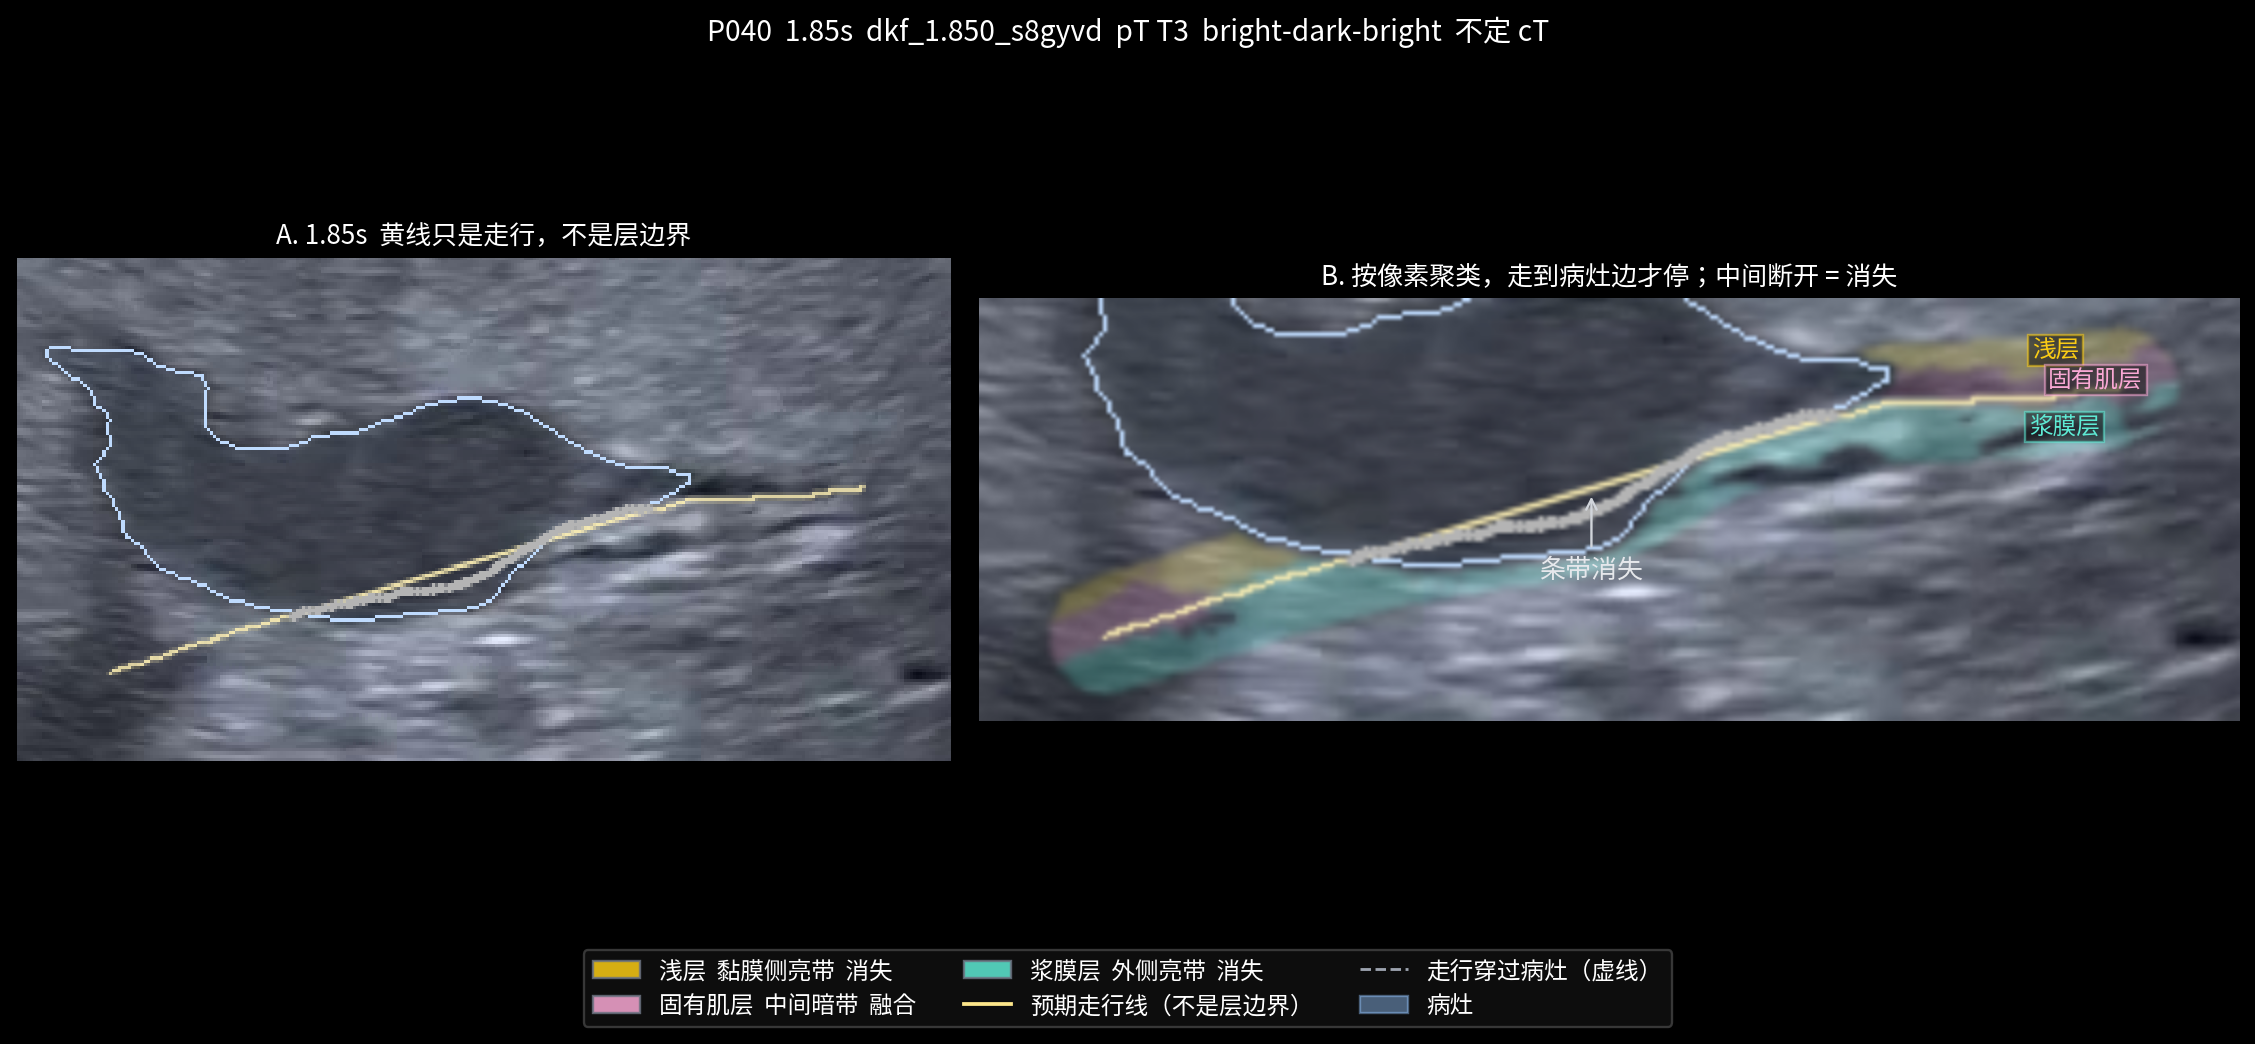
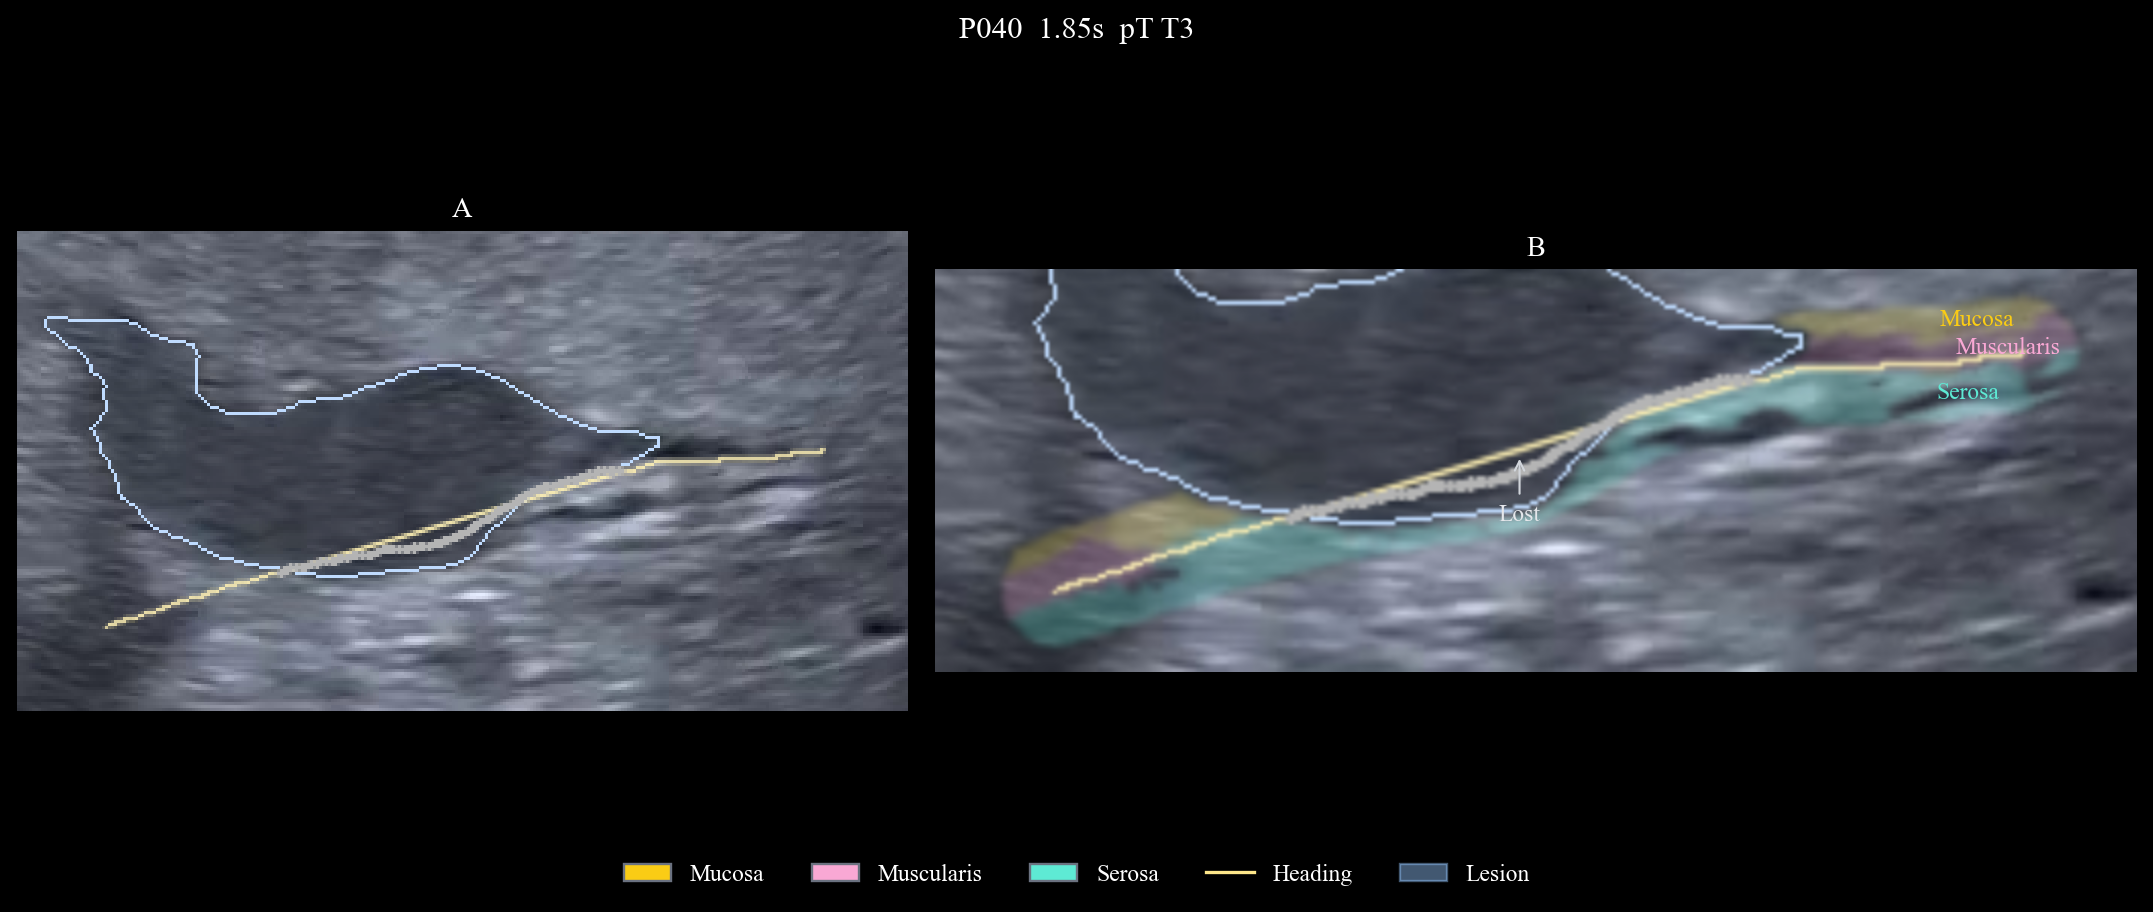
Shorten the P040 panel to English Times New Roman labels.
Drop the long Chinese captions; keep Mucosa, Muscularis, Serosa, Lost.

diff --git a/scripts/render_wall_layer_thin_bands.py b/scripts/render_wall_layer_thin_bands.py
@@ -25,14 +25,11 @@ ROOT = Path(__file__).resolve().parents[1]
 sys.path.insert(0, str(ROOT / "scripts"))
 sys.path.insert(0, str(ROOT / "pipeline"))
 
-from matplotlib.font_manager import FontProperties
 from matplotlib.lines import Line2D
 from matplotlib.patches import Patch
 
 from wall_lesion_aware_cluster import (  # noqa: E402
     DEFAULT_BRUSH,
-    FATE_ZH,
-    LAYER_NAMES_ZH,
     as_xy,
     cluster_brush_band,
     densify_polyline,
@@ -60,12 +57,10 @@ WALL = (254, 240, 180)
 LAYER_BLEND = 0.26
 LESION_BLEND = 0.12
 GAP_PX = 1
-CJK_PATH = "/usr/share/fonts/opentype/noto/NotoSansCJK-Regular.ttc"
-CJK = FontProperties(fname=CJK_PATH, size=10)
 LAYER_LEGEND = (
-    (0, "shallow", "浅层", "黏膜侧亮带"),
-    (1, "muscularis", "固有肌层", "中间暗带"),
-    (2, "serosa", "浆膜层", "外侧亮带"),
+    (0, "shallow", "Mucosa"),
+    (1, "muscularis", "Muscularis"),
+    (2, "serosa", "Serosa"),
 )
 
 # Tight pads. P008 lesion sits on the lower wall; drop the empty upper sector.
@@ -440,15 +435,13 @@ def render_case(meta: dict, seg: RoiSegmenter, out_dir: Path, brush: float) -> d
     )
 
     time_sec = meta.get("time_sec")
-    kf = str(meta.get("zml_keyframe_id") or "")
     fates = list(getattr(arm, "fates", None) or [])
-    fate_by_id = {str(item.get("id")): item for item in fates}
-    fig, axes = plt.subplots(1, 2, figsize=(13.4, 6.2), gridspec_kw={"width_ratios": [1.0, 1.35]})
+    fig, axes = plt.subplots(1, 2, figsize=(12.8, 5.4), gridspec_kw={"width_ratios": [1.0, 1.35]})
     axes[0].imshow(panel_a)
-    axes[0].set_title(f"A. {time_sec}s  黄线只是走行，不是层边界", fontproperties=CJK, fontsize=11)
+    axes[0].set_title("A", fontsize=12)
     axes[0].axis("off")
     axes[1].imshow(panel_b)
-    axes[1].set_title("B. 按像素聚类，走到病灶边才停；中间断开 = 消失", fontproperties=CJK, fontsize=11)
+    axes[1].set_title("B", fontsize=12)
     axes[1].axis("off")
 
     def to_b(x: float, y: float) -> tuple[float, float]:
@@ -459,7 +452,7 @@ def render_case(meta: dict, seg: RoiSegmenter, out_dir: Path, brush: float) -> d
     labs = np.asarray(getattr(arm, "labels", []) or [], dtype=np.int32)
     if len(xs_lab) and len(labs) == len(xs_lab):
         right_cut = float(np.quantile(xs_lab, 0.78)) if len(xs_lab) else 0.0
-        for lab, _key, zh, _hint in LAYER_LEGEND:
+        for lab, _key, en in LAYER_LEGEND:
             sel = (labs == lab) & (xs_lab >= right_cut)
             if gap is not None and sel.any():
                 inside = (
@@ -471,59 +464,51 @@ def render_case(meta: dict, seg: RoiSegmenter, out_dir: Path, brush: float) -> d
                 continue
             axes[1].text(
                 *to_b(float(xs_lab[sel].mean()), float(ys_lab[sel].mean())),
-                zh,
+                en,
                 color=LAYER_HEX[lab],
-                fontproperties=CJK,
                 fontsize=10,
+                fontname="Times New Roman",
                 ha="left",
                 va="center",
-                bbox={"facecolor": "#111111", "edgecolor": LAYER_HEX[lab], "alpha": 0.55, "pad": 1.6},
             )
     mid = vanish_xy(wall_crop, crop_mask)
     if mid is not None:
         axes[1].annotate(
-            "条带消失",
+            "Lost",
             xy=to_b(mid[0], mid[1]),
-            xytext=(0, -36),
+            xytext=(0, -28),
             textcoords="offset points",
             color="#e5e7eb",
-            fontproperties=CJK,
-            fontsize=11,
+            fontsize=10,
+            fontname="Times New Roman",
             ha="center",
-            arrowprops={"arrowstyle": "->", "color": "#d1d5db", "lw": 1.0},
+            arrowprops={"arrowstyle": "->", "color": "#d1d5db", "lw": 0.9},
         )
 
-    handles = []
-    for lab, key, zh, hint in LAYER_LEGEND:
-        fate = fate_by_id.get(key) or {}
-        status = FATE_ZH.get(str(fate.get("status") or ""), str(fate.get("status") or ""))
-        handles.append(Patch(
-            facecolor=LAYER_HEX[lab], edgecolor="#6b7280", alpha=0.85,
-            label=f"{zh}  {hint}  {status}",
-        ))
-    handles.append(Line2D([0], [0], color="#fde68a", lw=1.6, label="预期走行线（不是层边界）"))
-    handles.append(Line2D([0], [0], color="#9ca3af", lw=1.2, linestyle="--", label="走行穿过病灶（虚线）"))
-    handles.append(Patch(facecolor="#93c5fd", edgecolor="#93c5fd", alpha=0.45, label="病灶"))
+    handles = [
+        Patch(facecolor=LAYER_HEX[lab], edgecolor="#6b7280", label=en)
+        for lab, _key, en in LAYER_LEGEND
+    ]
+    handles.append(Line2D([0], [0], color="#fde68a", lw=1.4, label="Heading"))
+    handles.append(Patch(facecolor="#93c5fd", edgecolor="#93c5fd", alpha=0.45, label="Lesion"))
     fig.legend(
         handles=handles,
         loc="lower center",
-        ncol=3,
-        frameon=True,
-        facecolor="#111111",
-        edgecolor="#444444",
+        ncol=5,
+        frameon=False,
         labelcolor="white",
-        prop=CJK,
+        fontsize=10,
         bbox_to_anchor=(0.5, 0.01),
+        prop={"family": "Times New Roman", "size": 10},
     )
     area = int((crop_mask > 0).sum())
     fig.suptitle(
-        f"{meta.get('display_id')}  {time_sec}s  {kf}  pT {meta.get('pT_ref') or '?'}  "
-        f"{getattr(arm, 'pattern', '') or ''}  不定 cT",
-        fontproperties=CJK,
-        fontsize=12,
+        f"{meta.get('display_id')}  {time_sec}s  pT {meta.get('pT_ref') or '?'}",
+        fontsize=13,
+        fontname="Times New Roman",
         y=0.98,
     )
-    fig.tight_layout(rect=[0, 0.14, 1, 0.94])
+    fig.tight_layout(rect=[0, 0.08, 1, 0.95])
     out_dir.mkdir(parents=True, exist_ok=True)
     dest = out_dir / f"{meta.get('case_id')}_thin_bands.png"
     fig.savefig(dest, dpi=170, bbox_inches="tight")

diff --git a/docs/PROJECT_CHANGELOG.md b/docs/PROJECT_CHANGELOG.md
@@ -2,6 +2,14 @@
 
 This file records material project changes, their validation, and deployment state. Do not add patient identifiers, credentials, tokens, private URLs, or sensitive clinical data.
 
+## 2026-08-29, P040 figure text in Times New Roman English
+
+- Scope: `scripts/render_wall_layer_thin_bands.py --case P040`.
+- Reason: The panel had too much Chinese copy. Keep short English labels in Times New Roman.
+- Key changes: Title is case and time only. On-image tags are Mucosa / Muscularis / Serosa / Lost. Legend drops long notes. Clustering unchanged. Does not unlock cT.
+- Validation: Offline P040 re-render.
+- Deployment: none (offline figure).
+
 ## 2026-08-29, P040 keep muscularis inside the serosa strip
 
 - Scope: `scripts/wall_lesion_aware_cluster.py` (strip order), `scripts/render_wall_layer_thin_bands.py --case P040`.
